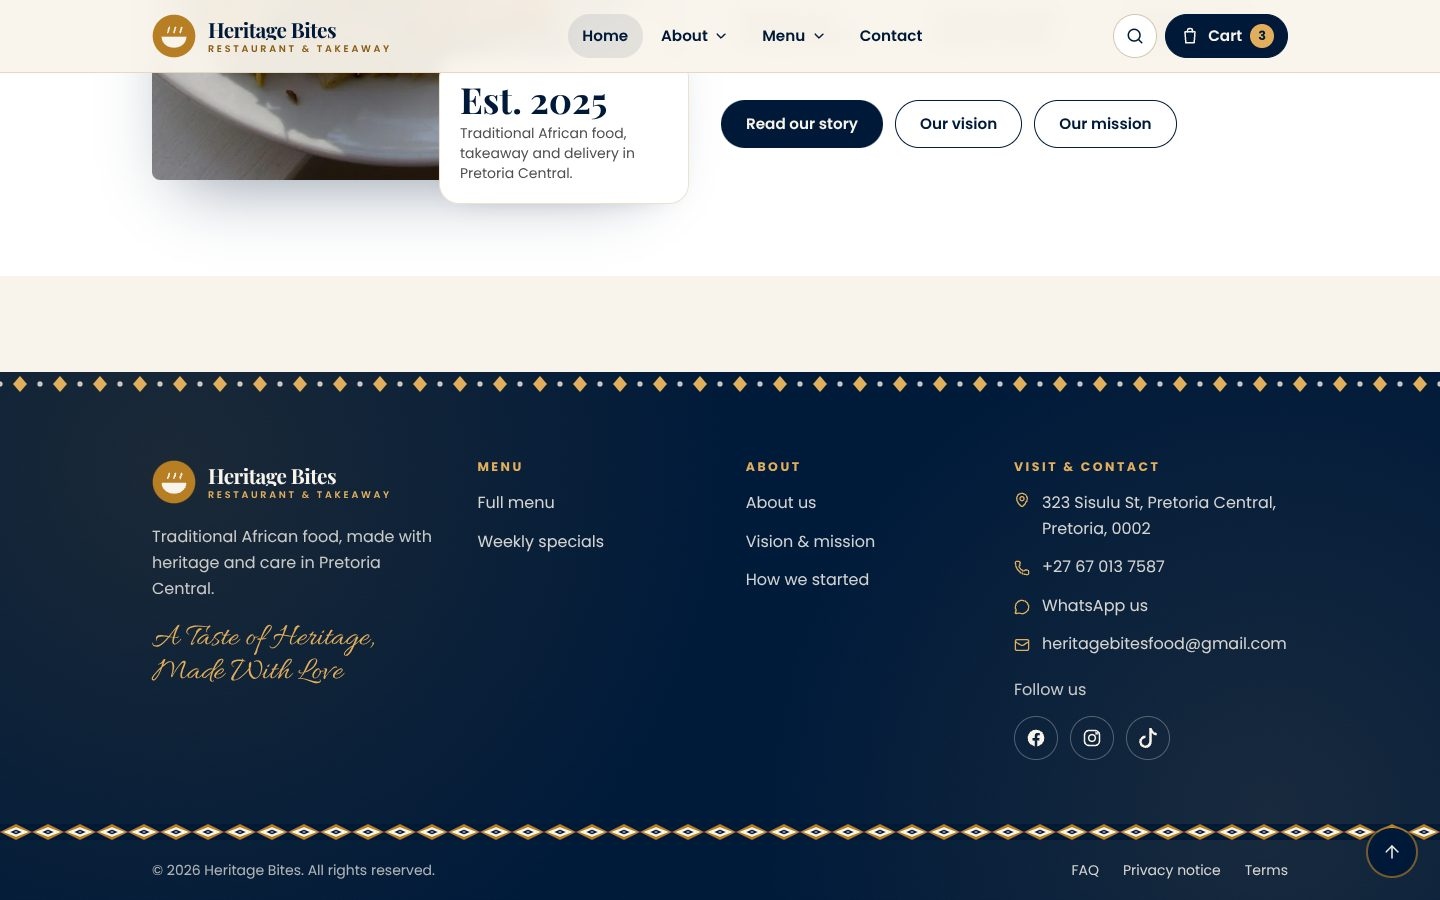
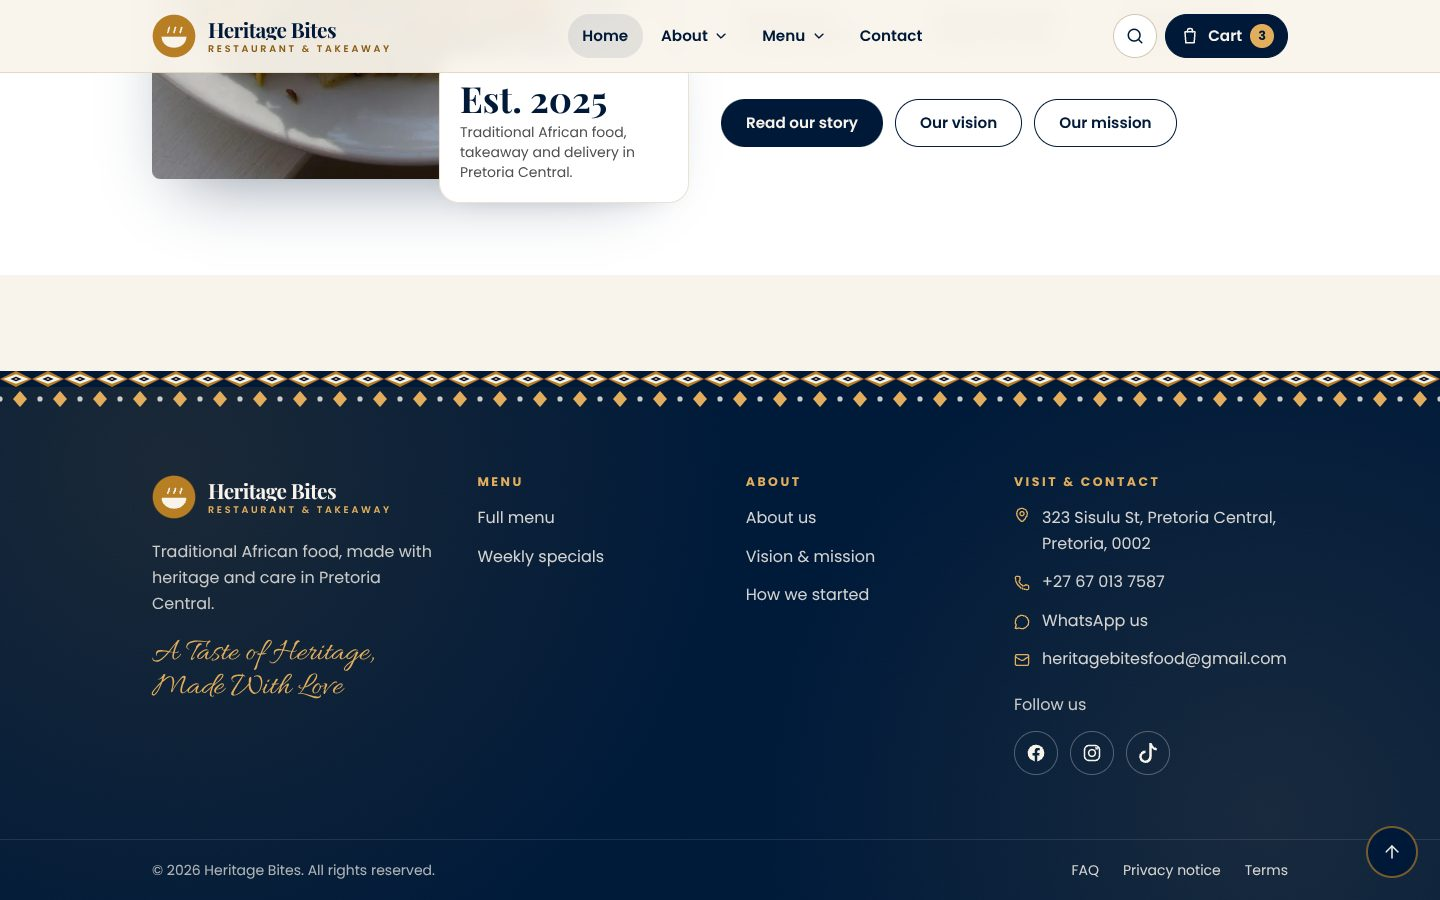
Woven strip on the top of the footer only
- The woven strip is removed from above the copyright line and is now the topmost row of the footer. The bottom bar keeps its thin divider.
- The gold beaded row that was already at the top of the footer is unchanged.
- Browser check: the strip sits at the top of the footer and only once (117/117). API checks 77/77. Link crawl clean. Review screenshots regenerated.

diff --git a/components/site/SiteFooter.tsx b/components/site/SiteFooter.tsx
@@ -42,6 +42,7 @@ export function SiteFooter({
   const year = new Date().getFullYear();
   return (
     <footer className="grain relative mt-24 overflow-hidden bg-navy text-cream/85">
+      <div aria-hidden="true" className="kasi-strip" />
       <div className="band-beads" aria-hidden="true" />
       <div className="container-hb grid gap-12 py-16 sm:grid-cols-2 lg:grid-cols-[1.25fr_1fr_1fr_1.2fr] lg:gap-10">
         <div className="flex flex-col gap-5 sm:col-span-2 lg:col-span-1">
@@ -98,8 +99,7 @@ export function SiteFooter({
         </nav>
       </div>
 
-      <div aria-hidden="true" className="kasi-strip" />
-      <div>
+      <div className="border-t border-white/10">
         <div className="container-hb flex flex-col gap-3 py-5 text-sm text-cream/70 sm:flex-row sm:items-center sm:justify-between">
           <p>© {year} Heritage Bites. All rights reserved.</p>
           <nav aria-label="Help and legal" className="flex flex-wrap gap-x-6 gap-y-2">

diff --git a/README.md b/README.md
@@ -60,7 +60,7 @@ The home page has no events, office lunch or table booking offer, and no separat
 - Categories and dishes are in `lib/seed-data.ts`: six categories (as on heritagebites.co.za) and 20 dishes. Each dish has one to four photos.
 - Every product card has a photo carousel with arrows, dots, a counter, swipe and arrow keys. Each dot shows its own photo.
 - The photos are web photos and must be replaced before launch. See `docs/IMAGE_CREDITS.md`.
-- Heritage vectors: one motif set, drawn in CSS and SVG (see `app/globals.css`), so no image files are needed. Every hero (home, About, Menu, Specials, Contact, checkout, search, privacy and terms) has the diamond lattice on the right and the ochre zigzag along the bottom edge. The menu adds a faint lattice to the filter bar, to each category heading (led by a small ochre diamond) and to the corner of each dish card. Beaded strips run under dish photos and specials photos, and in the footer above the copyright line. Category headings and the category bar have none.
+- Heritage vectors: one motif set, drawn in CSS and SVG (see `app/globals.css`), so no image files are needed. Every hero (home, About, Menu, Specials, Contact, checkout, search, privacy and terms) has the diamond lattice on the right and the ochre zigzag along the bottom edge. The menu adds a faint lattice to the filter bar, to each category heading (led by a small ochre diamond) and to the corner of each dish card. Beaded strips run under dish photos and specials photos, and along the top of the footer. Category headings and the category bar have none.
 
 ## Ordering and payments
 
